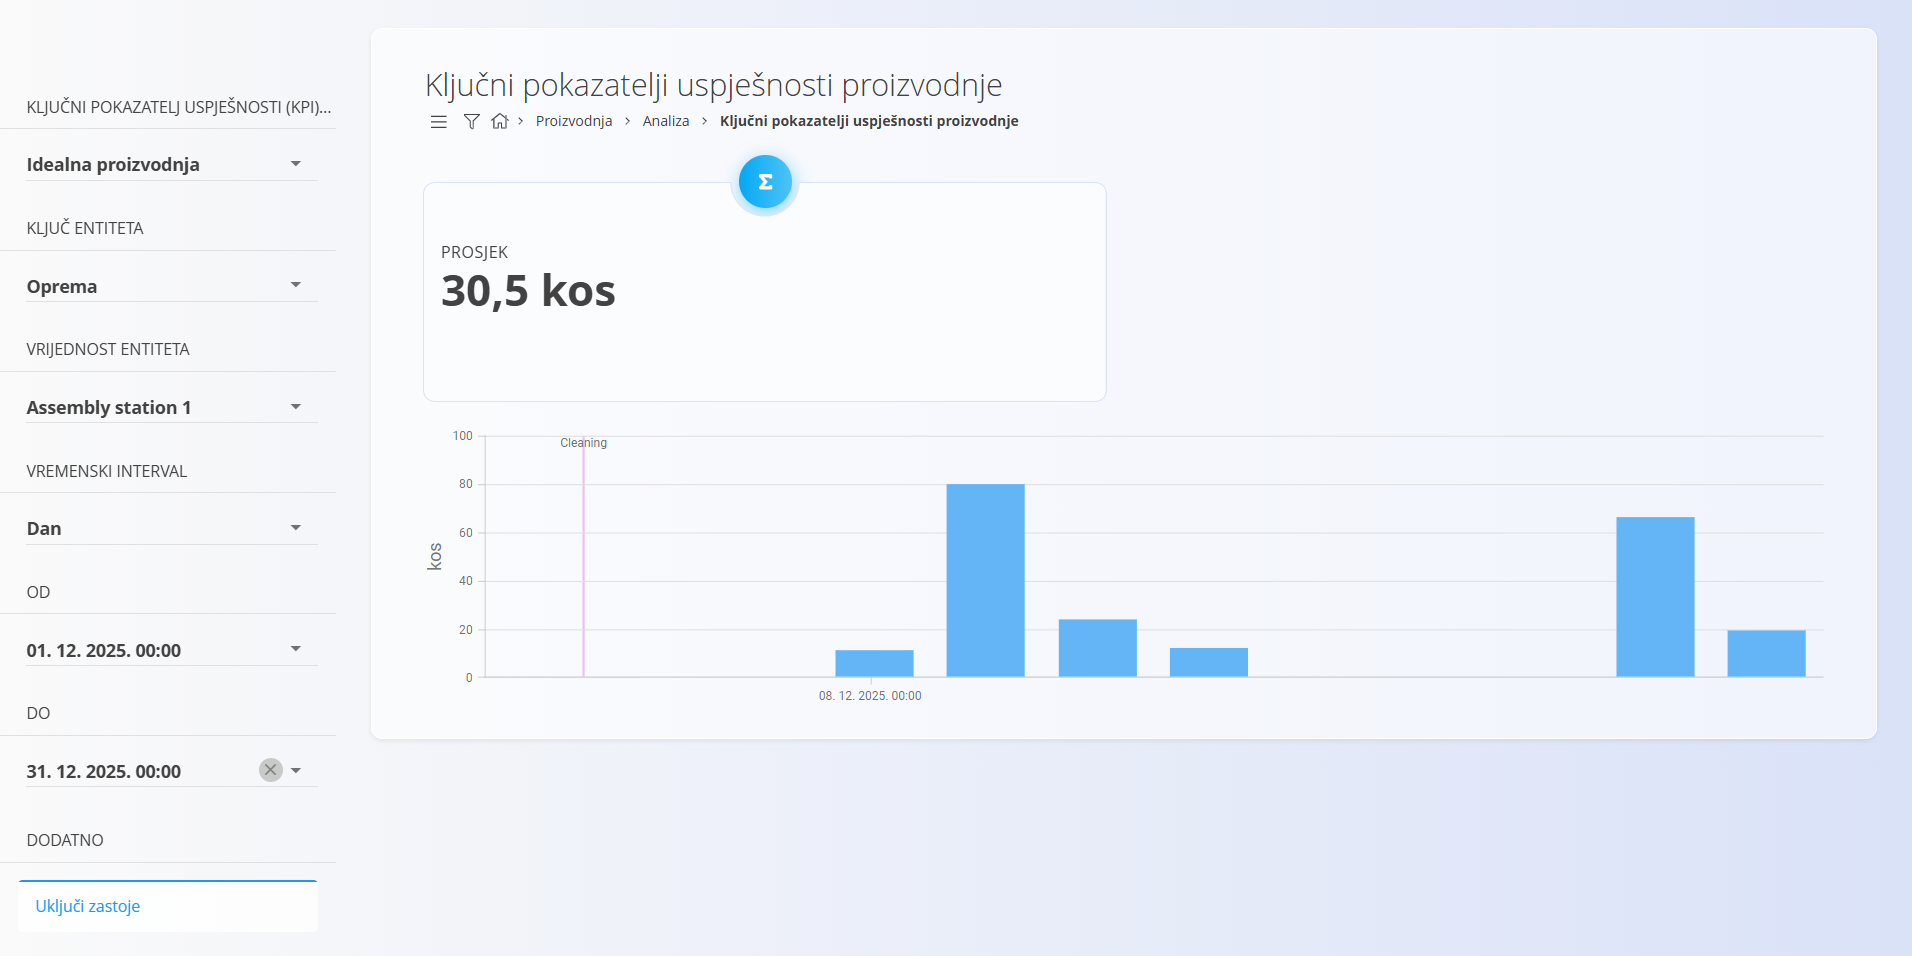
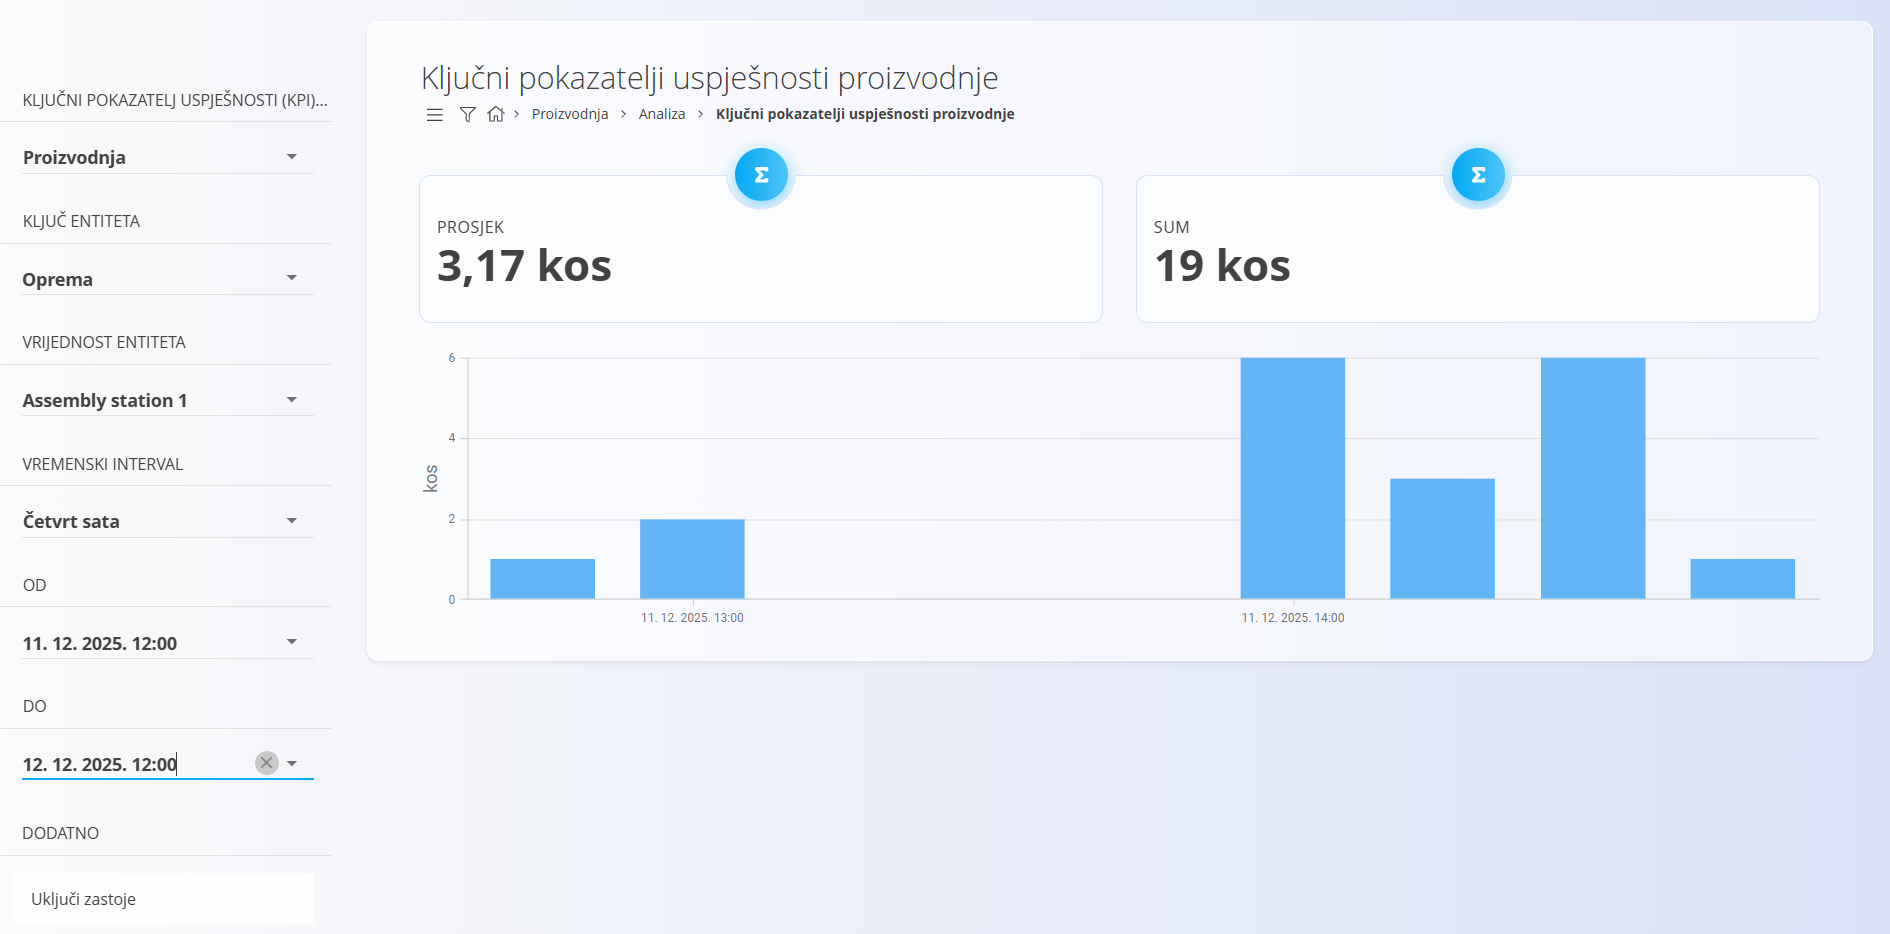
docs(en,sl,hr): document SUM on production KPIs

diff --git a/hr/Domene/Proizvodnja/Analiza/KljucniPokazateljiProizvodnje.md b/hr/Domene/Proizvodnja/Analiza/KljucniPokazateljiProizvodnje.md
@@ -101,12 +101,16 @@ Odaberite raspon datuma i vremena za koji se prikazuju podaci.
 
 Rezultati se prikazuju na vrhu stranice i uključuju:
 - **Prosjek** – prosječnu vrijednost odabranog pokazatelja u odabranom razdoblju
+- **SUM** – ukupnu vrijednost odabranog pokazatelja u odabranom razdoblju
 - **stupčasti ili linijski grafikon** koji prikazuje kretanje pokazatelja u odabranom vremenskom intervalu
 
 > [!NOTE]
 > Vrijednost **Prosjek** izračunava se iz izvornih proizvodnih podataka, a ne kao prosjek vrijednosti prikazanih na grafikonu.
 >
 > Zbog toga se vrijednost **Prosjek** može razlikovati od vizualnog prosjeka na grafikonu.
+
+> [!NOTE]
+> Vrijednost **SUM** zbroj je vrijednosti prikazanih na grafikonu za odabrani pokazatelj.
 
 Ovisno o odabranom pokazatelju, ispod grafikona mogu se prikazati dodatni detalji:
 - za **pokazatelje zastoja** – razlozi i trajanje zastoja

diff --git a/en/Domains/Production/Analytics/ProductionKPIs.md b/en/Domains/Production/Analytics/ProductionKPIs.md
@@ -95,12 +95,16 @@ Select the date and time range for which KPI data should be displayed.
 
 The KPI results are displayed at the top of the page and include:
 - **AVG** – The average value of the selected KPI over the chosen period  
+- **SUM** – The total value of the selected KPI over the chosen period  
 - A **bar or line chart** showing the KPI trend across the selected time frame  
 
 > [!NOTE]
 > The **AVG** value is calculated from the original production data, not as an average of the displayed chart values.
 >
 > Because of this, the AVG value may differ from the visual average shown in the graph.
+
+> [!NOTE]
+> The **SUM** value is the total of the values shown in the chart for the selected KPI.
 
 Depending on the selected KPI, additional details may appear below the graph:
 - For **downtime KPIs**, downtime reasons and durations  

diff --git a/sl/Domene/Proizvodnja/Analiza/KazalnikiProizvodnje.md b/sl/Domene/Proizvodnja/Analiza/KazalnikiProizvodnje.md
@@ -95,12 +95,16 @@ Izberite začetni in končni datum ter čas obdobja, za katerega želite prikaz 
 
 Rezultati KPI so prikazani na vrhu strani in vključujejo:
 - **AVG** – povprečno vrednost izbranega KPI-ja za izbrano obdobje
+- **SKUPAJ** – skupno vrednost izbranega KPI-ja za izbrano obdobje
 - **Stolpčni ali linijski graf** trenda KPI skozi izbrano časovno obdobje
 
 > [!NOTE]
 > Vrednost **AVG** se izračuna iz izvornih proizvodnih podatkov in ne kot povprečje prikazanih vrednosti na grafu.
 >
 > Zato se lahko vrednost AVG razlikuje od vizualnega povprečja na grafu.
+
+> [!NOTE]
+> Vrednost **SKUPAJ** je seštevek vrednosti, prikazanih na grafu za izbrani KPI.
 
 Glede na izbran KPI se lahko pod grafom prikažejo tudi dodatni podatki:
 - za **KPI zastojev**: razlogi in trajanja zastojev,
